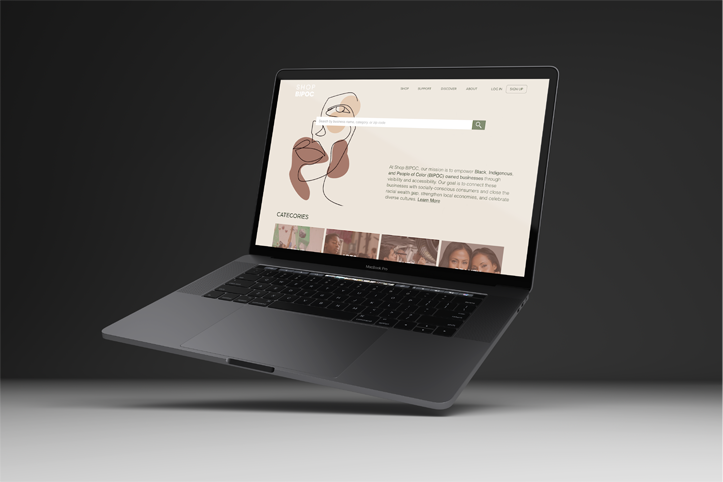
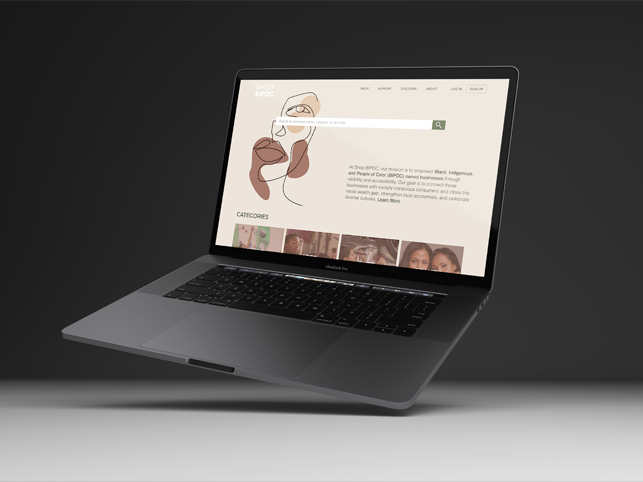
Image Changes

diff --git a/ui design html/shop bipoc.html b/ui design html/shop bipoc.html
@@ -11,9 +11,9 @@
 
 <div class="display"> 
 <section class="displayPage">
-    <div id="theOneImages" class="imageBox multiImage">
+    <div id="twoImages" class="imageBox multiImage">
         <img id="horizontal" class="displayImage" src="../ui design images/COVER shop bipoc.png">
-        <img id="horizontal" class="displayImage" src="../ui design images/shop bipoc.png">
+        <img id="horizontal" class="displayImage" src="../ui design images/shop bipoc.jpg">
     </div>
     <div class="text">
         <h1>Shop BIPOC</h1>
